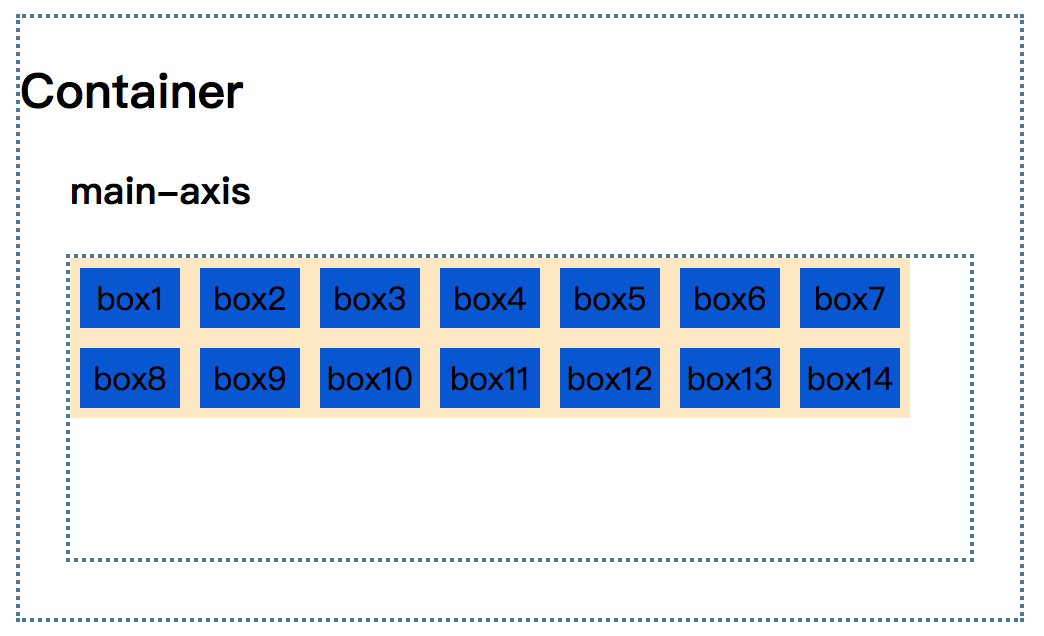
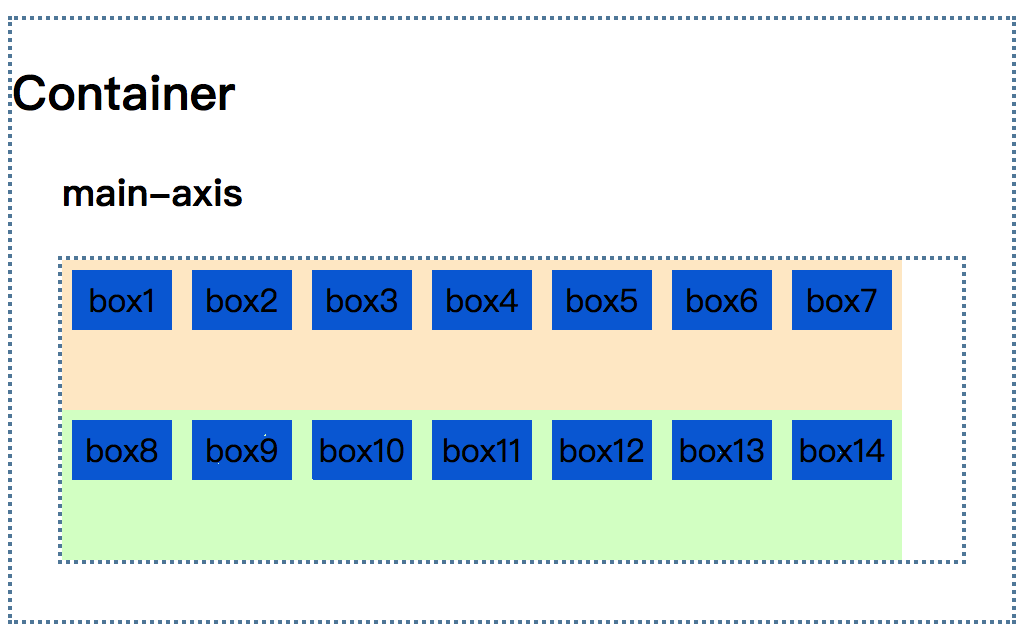
修改flex默认图片

diff --git a/src/css/flex.html b/src/css/flex.html
@@ -4,7 +4,7 @@
   <meta charset="UTF-8">
   <meta name="viewport" content="width=device-width, initial-scale=1.0">
   <meta http-equiv="X-UA-Compatible" content="ie=edge">
-  <title>FlexBox</title>
+  <title>Flexible Box</title>
   <style type="text/css">
     .container {
       width: 500px;
@@ -16,8 +16,8 @@
       display: flex;
       flex-flow: row wrap;
       justify-content: flex-start;
-      align-items: center;
-      /* align-content: center; */
+      /* align-items: center; */
+      align-content: center;
       width: 90%;
       height: 150px;
       border: 2px dotted rgb(96, 139, 168);
@@ -27,13 +27,13 @@
       height: 75px;
       background-color: blanchedalmond;
       display: flex;
-      align-items: center;
+      /* align-items: center; */
     }
     .container .main-axis .row2 {
       height: 75px;
       background-color: rgb(217, 255, 205);
       display: flex;
-      align-items: center;
+      /* align-items: center; */
     }
     .container h3 {
       position: relative;
